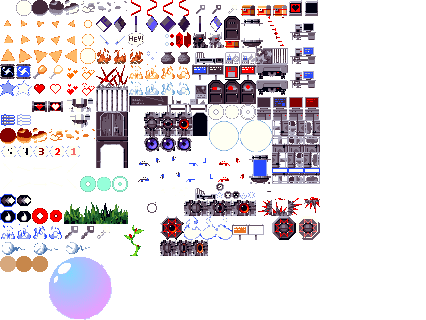
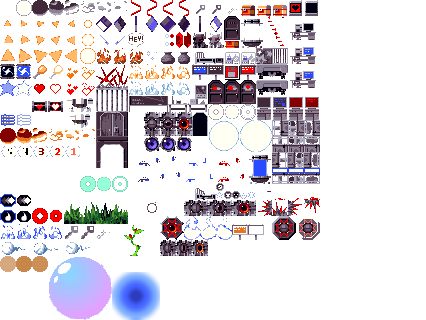
1.44.3: added glowing effect to tutorial signs

Changed region(s): [[0.2441, 0.8438, 0.3967, 1.0]]

diff --git a/src/NpChar.cpp b/src/NpChar.cpp
@@ -529,6 +529,9 @@ Rect targeting_visual_rect[2] = {
 		{104, 120, 128, 144},
 };
 
+float glowing = 0.0f;
+bool glowUp = true;
+
 void PutNpChar(int fx, int fy)
 {
 	int n;
@@ -628,6 +631,32 @@ void PutNpChar_Above(int fx, int fy)
 				side = gNPC[n].view.front;
 			else
 				side = gNPC[n].view.back;
+
+			if (gNPC[n].code_char == 37){
+				if (glowUp){
+					glowing += 1.33f / 60.0f;
+					if (glowing >= 1.25f){
+						glowUp = false;
+					}
+				} else {
+					glowing -= 1.33f / 60.0f;
+					if (glowing <= 0.0f){
+						glowUp = true;
+					}
+				}
+				Rect glowy = {112, 272, 160, 320};
+				int glowyWidth = (glowy.right - glowy.left)*1_pix;
+				int glowyHeight = (glowy.bottom - glowy.top)*1_pix;
+				if (glowing > 0.0f){
+					PutBitmap3(
+						&grcGame,
+						SubpixelToScreenCoord(gNPC[n].x - glowyWidth / 2) - SubpixelToScreenCoord(fx) + PixelToScreenCoord(a),
+						SubpixelToScreenCoord(gNPC[n].y - glowyHeight / 2) - SubpixelToScreenCoord(fy),
+						&glowy,
+						(SurfaceID)gNPC[n].surf,
+						std::min(1.0f, glowing));
+				}
+			}
 
 			PutBitmap3(
 				&grcGame,
